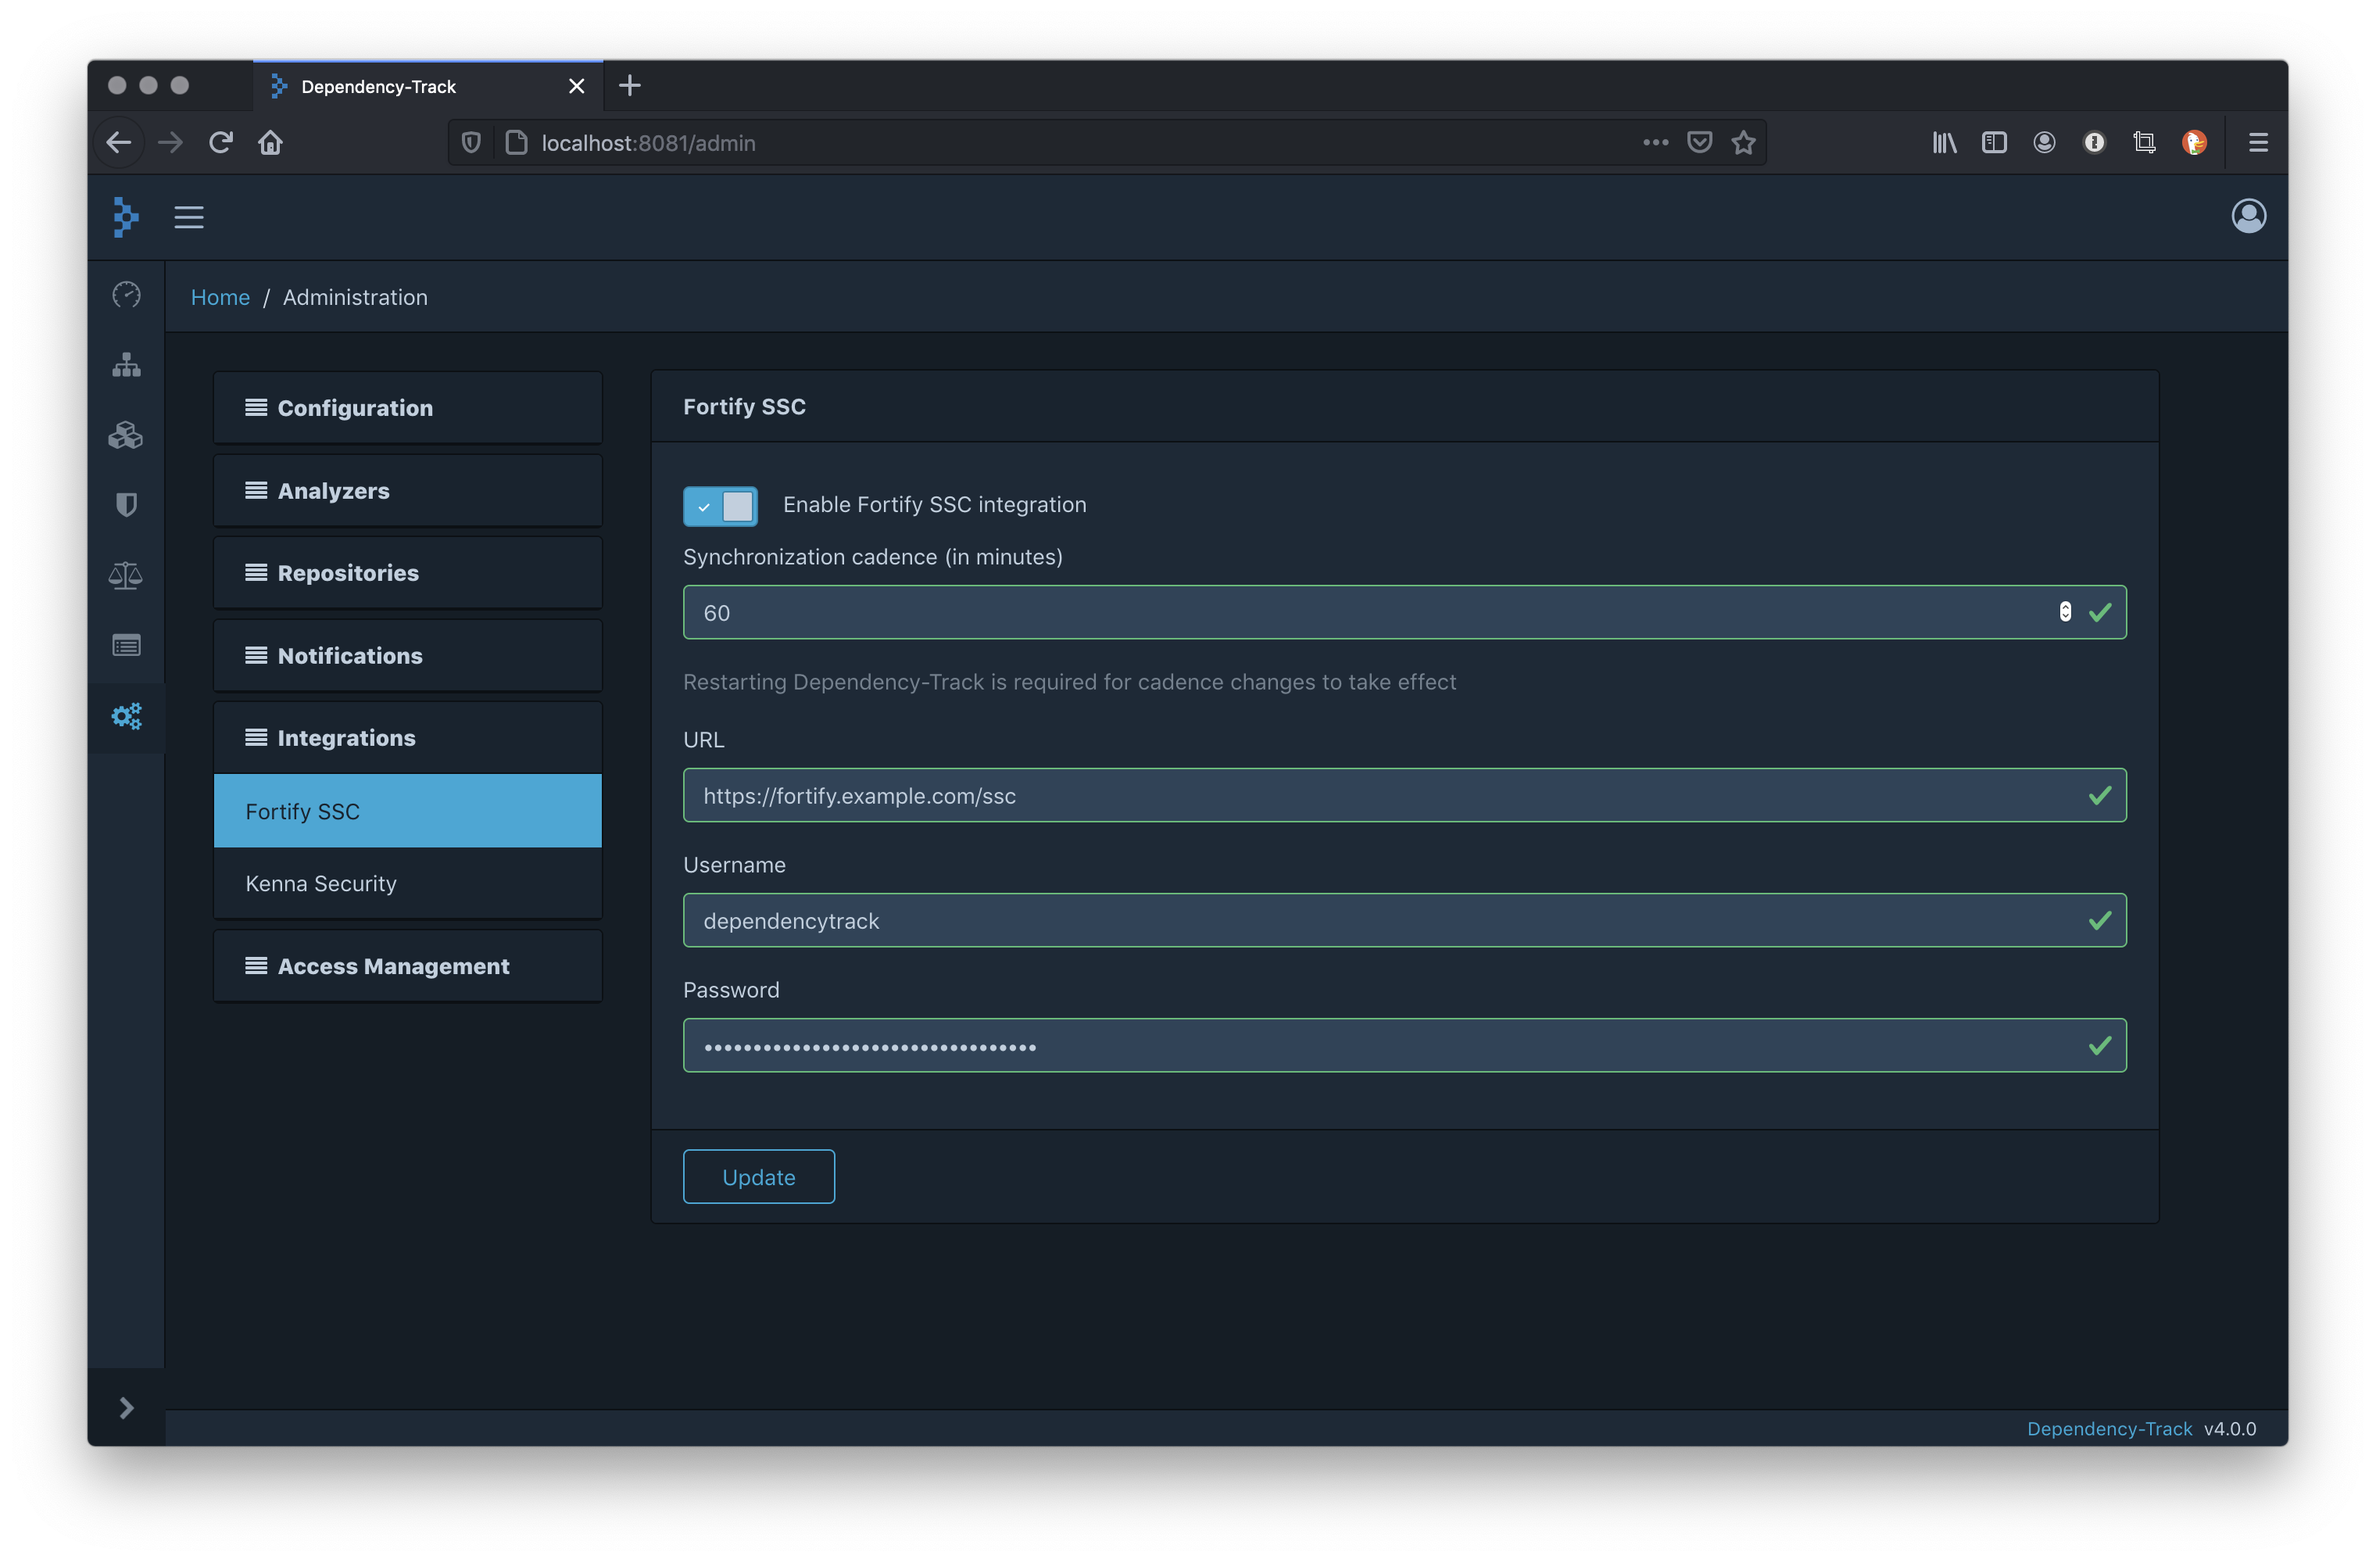
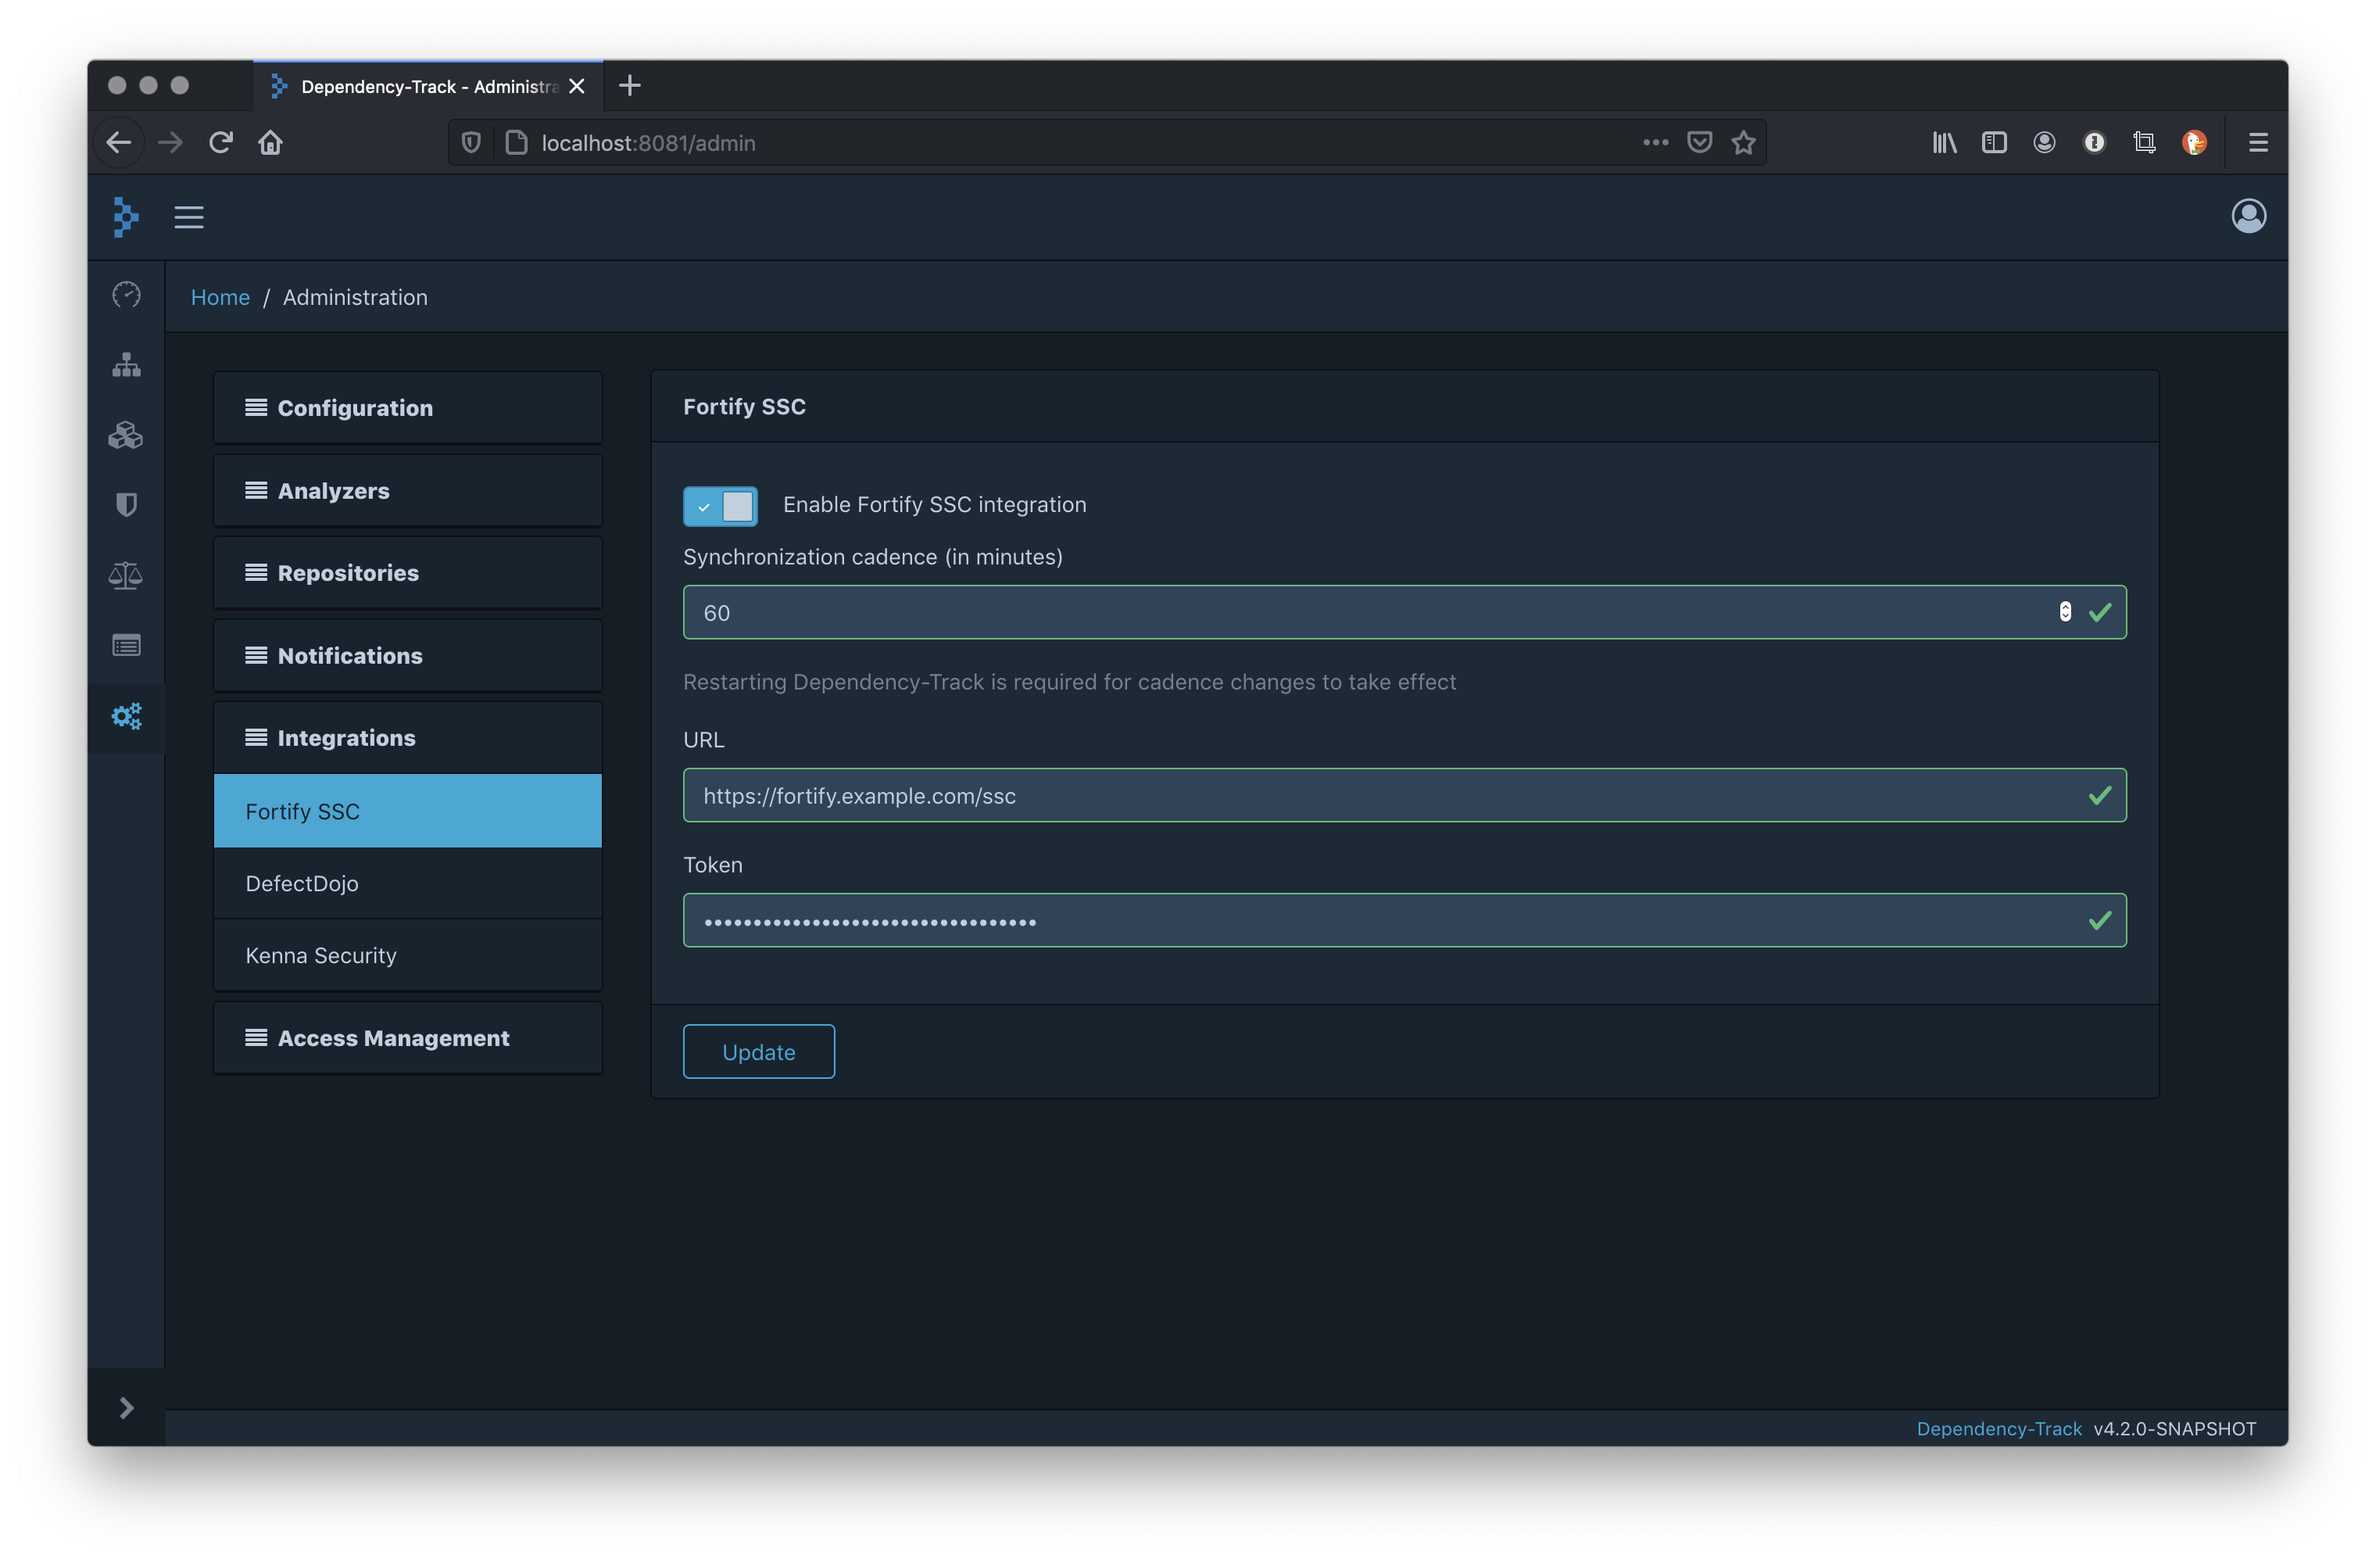
#700 - Updated documentation

diff --git a/docs/_docs/integrations/fortify-ssc.md b/docs/_docs/integrations/fortify-ssc.md
@@ -22,6 +22,8 @@ Requirements:
 ### Dependency-Track Configuration
 
 #### Global configuration
+Dependency-Track requires the use of a `CIToken`. Refer to the Fortify SSC documentation for more information.
+
 ![Configure SSC Integration](/images/screenshots/fortify-ssc-dtrack-configuration.png)
 
 #### Per-project configuration
